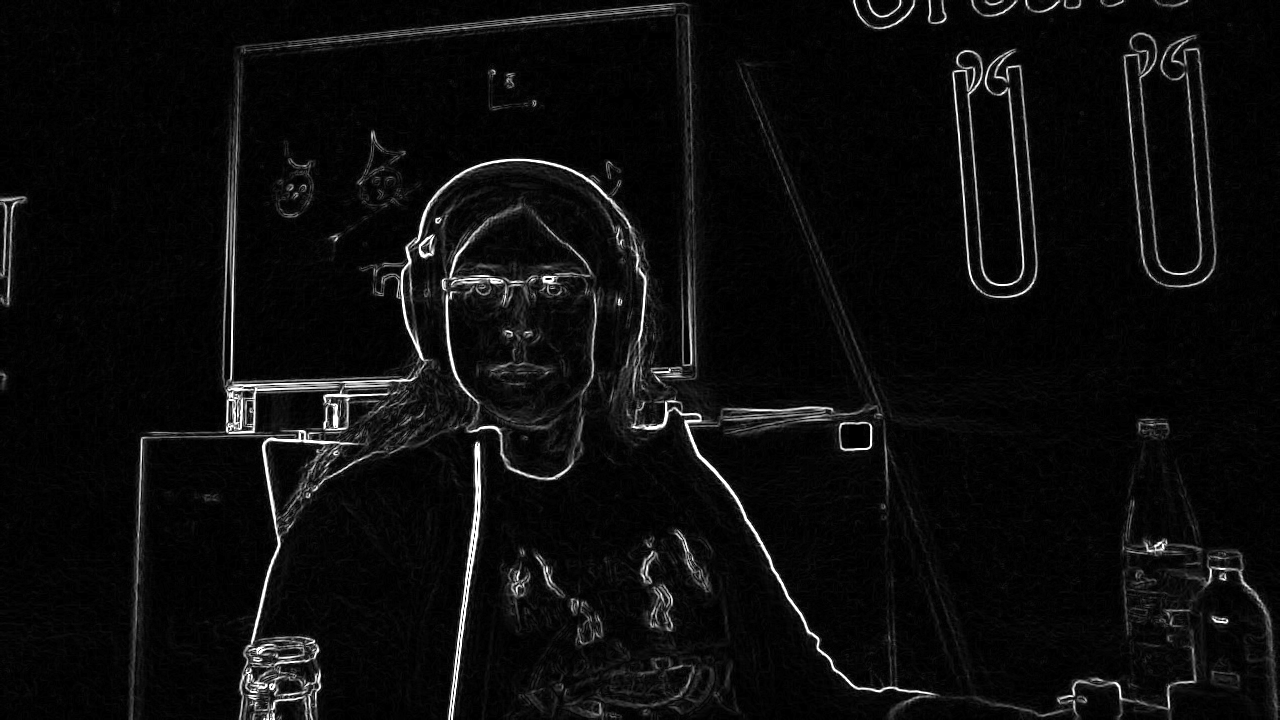
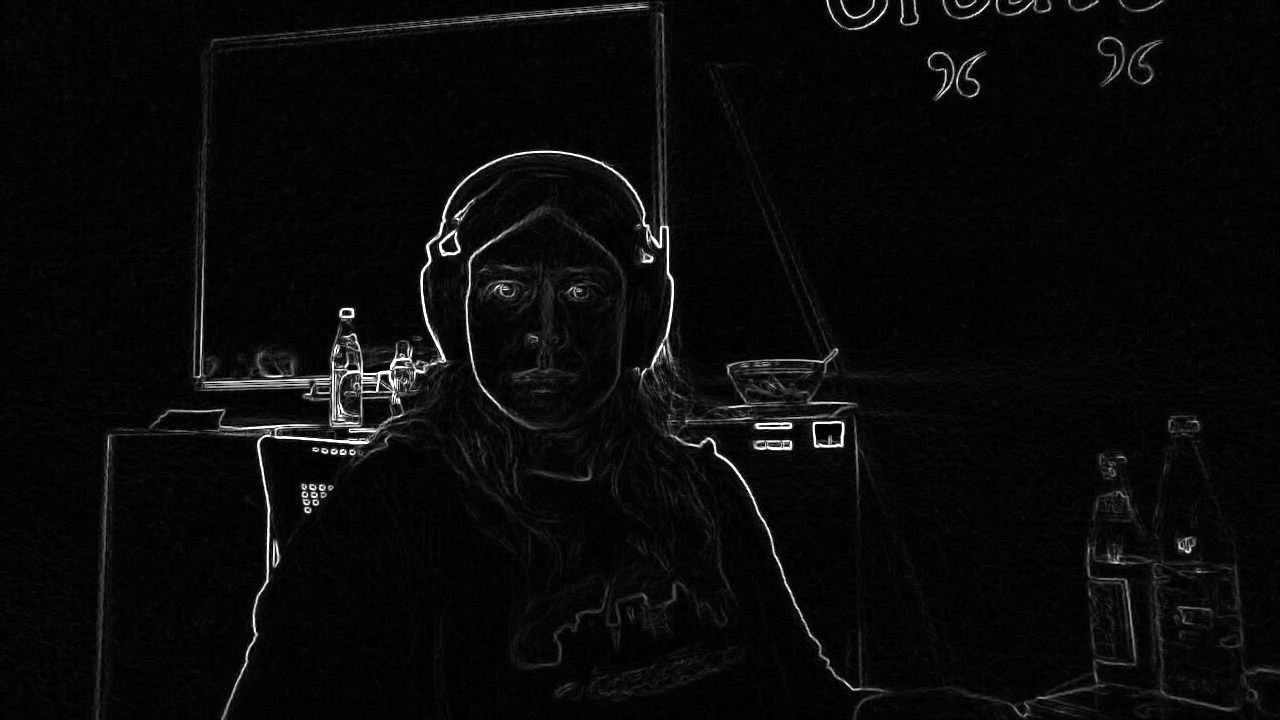
tmp

diff --git a/src/main.rs b/src/main.rs
@@ -1,12 +1,9 @@
-use image::codecs::pnm::GraymapHeader;
 use image::imageops::grayscale;
-use image::GenericImageView;
+use image::io::Reader as ImageReader;
 use image::ImageBuffer;
-use image::ImageDecoder;
 use image::Luma;
 use image::Rgb;
 use imageproc::filter;
-use imageproc::filter::filter3x3;
 use imageproc::filter::Kernel;
 use nokhwa::{
     pixel_format::RgbFormat,
@@ -34,14 +31,37 @@ fn main() {
     println!("Decoded Frame of {}", decoded.len());
 }
 
-fn grey_to_float(g: &ImageBuffer<Luma<u8>, Vec<u8>>) -> ImageBuffer<Luma<f32>, Vec<f32>> {
-    let floats: Vec<f32> = g.iter().map(|u| *u as f32 / 255.0).collect();
+fn grey_to_float(
+    g: &ImageBuffer<Luma<u8>, Vec<u8>>,
+    f: fn(f32) -> f32,
+) -> ImageBuffer<Luma<f32>, Vec<f32>> {
+    let floats: Vec<f32> = g.iter().map(|u| f(to_float_0_1(*u))).collect();
     ImageBuffer::<Luma<f32>, _>::from_raw(g.width(), g.height(), floats).unwrap()
+}
+
+fn to_float_0_1(u: u8) -> f32 {
+    u as f32 / 255.0
+}
+
+fn to_u8_0_1(f: f32) -> u8 {
+    (f * 255.0).round_ties_even() as u8
+}
+
+fn to_float_n1_1(u: u8) -> f32 {
+    (to_float_0_1(u) - 0.5) * 2.0
+}
+
+fn to_u8_n1_1(f: f32) -> u8 {
+    to_u8_0_1((f + 1.0) / 2.0)
+}
+
+fn identity(f: f32) -> f32 {
+    f
 }
 
 fn edges(image: &ImageBuffer<Rgb<u8>, Vec<u8>>) -> ImageBuffer<Luma<u8>, Vec<u8>> {
     let g = grayscale(image);
-    let f = grey_to_float(&g);
+    let f = grey_to_float(&g, identity);
     let filtered = filter::filter3x3::<Luma<f32>, f32, f32>(
         &f,
         &[1.0, 2.0, 1.0, 0.0, 0.0, 0.0, -1.0, -2.0, -1.0],
@@ -64,28 +84,66 @@ fn edges(image: &ImageBuffer<Rgb<u8>, Vec<u8>>) -> ImageBuffer<Luma<u8>, Vec<u8>
         .zip(filtered2.iter())
         .zip(filtered3.iter())
         .zip(filtered4.iter())
-        .map(|(((v1, v2), v3), v4)| ((v1.max(*v2).max(*v3).max(*v4)) * 255.0) as u8)
+        .map(|(((v1, v2), v3), v4)| to_u8_0_1(v1.max(*v2).max(*v3).max(*v4)))
         .collect();
     image::ImageBuffer::<Luma<u8>, _>::from_raw(image.width(), image.height(), b).unwrap()
 }
 
-fn detect_eyes(image: &ImageBuffer<Luma<u8>, Vec<u8>>) -> bool {
-    let g = grey_to_float(image);
-    let s = (100) as usize;
-    let circel = create_circle_convolution(s, 0.55, 0.8);
-    let kernel = Kernel::<f32>::new(&circel[..], s as u32, s as u32);
-    use imageproc::definitions::Clamp;
-    let eye_detected = kernel.filter::<Luma<f32>, _, Luma<f32>>(&g, |channel, acc| {
-        *channel = <f32 as Clamp<f32>>::clamp(acc)
-    });
-    let eye_data: Vec<u8> = eye_detected.iter().map(|f| (f * 255.0) as u8).collect();
-    let eye = image::ImageBuffer::<Luma<u8>, _>::from_raw(image.height(), image.width(), eye_data)
+fn binary_edge(f: f32) -> f32 {
+    if f > 0.3 && f < 0.8 {
+        1.0
+    } else {
+        0.0
+    }
+}
+
+fn save_f32_luma(image: &ImageBuffer<Luma<f32>, Vec<f32>>, path: &str) {
+    let eye_data: Vec<u8> = image.iter().map(|f| to_u8_0_1(*f)).collect();
+    let eye = image::ImageBuffer::<Luma<u8>, _>::from_raw(image.width(), image.height(), eye_data)
         .unwrap();
-    eye.save("eye_detected.png").unwrap();
+    eye.save(path).unwrap();
+}
+fn save_f32_luma_vec(width: u32, height: u32, d: &[f32], path: &str) {
+    let eye_data: Vec<u8> = d.iter().map(|f| to_u8_0_1(*f)).collect();
+    let eye = image::ImageBuffer::<Luma<u8>, _>::from_raw(width, height, eye_data).unwrap();
+    eye.save(path).unwrap();
+}
+
+fn convolution_pass(f: f32) -> f32 {
+    if f > 0.3 {
+        3.0
+    } else {
+        -1.0
+    }
+}
+
+fn eye_convolution_from_image() -> (Vec<f32>, u32, u32) {
+    let png = ImageReader::open("eye.png").unwrap().decode().unwrap();
+    let g = grayscale(&png);
+    let v = grey_to_float(&g, convolution_pass);
+    (v.into_iter().cloned().collect(), v.width(), v.height())
+}
+
+fn detect_eyes(image: &ImageBuffer<Luma<u8>, Vec<u8>>) -> bool {
+    let g = grey_to_float(image, identity);
+    save_f32_luma(&g, "after_conversion.png");
+    let s = 32 as usize;
+    // let circel = create_circle_convolution(s, 0.3, 0.4, 0.05);
+    // save_f32_luma_vec(s as u32, s as u32, &circel, "circle.png");
+    let eye_conv = eye_convolution_from_image();
+    save_f32_luma_vec(eye_conv.1, eye_conv.2, &eye_conv.0, "circle.png");
+    let kernel = Kernel::<f32>::new(&eye_conv.0[..], eye_conv.1, eye_conv.2);
+    let eye_detected = kernel.filter::<Luma<f32>, _, Luma<f32>>(&g, |channel, acc| *channel = acc);
+    save_f32_luma(&eye_detected, "eye_detected.png");
     false
 }
 
-fn create_circle_convolution(size: usize, inner_radius: f32, outer_radius: f32) -> Vec<f32> {
+fn create_circle_convolution(
+    size: usize,
+    inner_radius: f32,
+    outer_radius: f32,
+    inner_dot_radius: f32,
+) -> Vec<f32> {
     let mut data = Vec::<f32>::with_capacity(size * size);
 
     for x in 0..size {
@@ -94,7 +152,8 @@ fn create_circle_convolution(size: usize, inner_radius: f32, outer_radius: f32) 
             let y = ((y as f32) - (size as f32) / 2.0) / (size as f32);
             let distance = ((x) * (x) + (y) * (y)).sqrt();
 
-            if distance > inner_radius && distance < outer_radius {
+            if (distance >= inner_radius && distance <= outer_radius) || distance < inner_dot_radius
+            {
                 data.push(2.0);
             } else {
                 data.push(-2.0)
@@ -106,9 +165,35 @@ fn create_circle_convolution(size: usize, inner_radius: f32, outer_radius: f32) 
 
 #[cfg(test)]
 mod test {
-    use image::{imageops::grayscale, io::Reader as ImageReader, Luma};
+    use image::{imageops::grayscale, io::Reader as ImageReader};
 
-    use crate::{create_circle_convolution, detect_eyes};
+    #[test]
+    fn convert_0_1() {
+        for u in 0..=255u8 {
+            let f = to_float_0_1(u);
+            assert!(f >= 0.0);
+            assert!(f <= 1.0);
+            assert!(to_u8_0_1(f) == u);
+        }
+    }
+    #[test]
+    fn convert_n1_1() {
+        for u in 0..=255u8 {
+            let f = to_float_n1_1(u);
+            dbg!(u);
+            dbg!(f);
+            if u < 128 {
+                assert!(f >= -1.0);
+                assert!(f <= 0.0);
+            } else {
+                assert!(f >= 0.0);
+                assert!(f <= 1.0);
+            }
+            assert!(dbg!(to_u8_n1_1(f)) == u);
+        }
+    }
+
+    use crate::{detect_eyes, to_float_0_1, to_float_n1_1, to_u8_0_1, to_u8_n1_1};
     #[test]
     fn eye_detection_exists_with_glasses() {
         let png = ImageReader::open("edges_eyes_glasses.png")
@@ -117,14 +202,5 @@ mod test {
             .unwrap();
         let g = grayscale(&png);
         assert!(detect_eyes(&g));
-    }
-
-    #[test]
-    fn create_circle_convolution_save_to_file() {
-        let circel_data = create_circle_convolution(128, 0.2, 1.0);
-        image::ImageBuffer::<Luma<u8>, Vec<u8>>::from_raw(128, 128, circel_data)
-            .unwrap()
-            .save("circle.png")
-            .unwrap();
     }
 }
